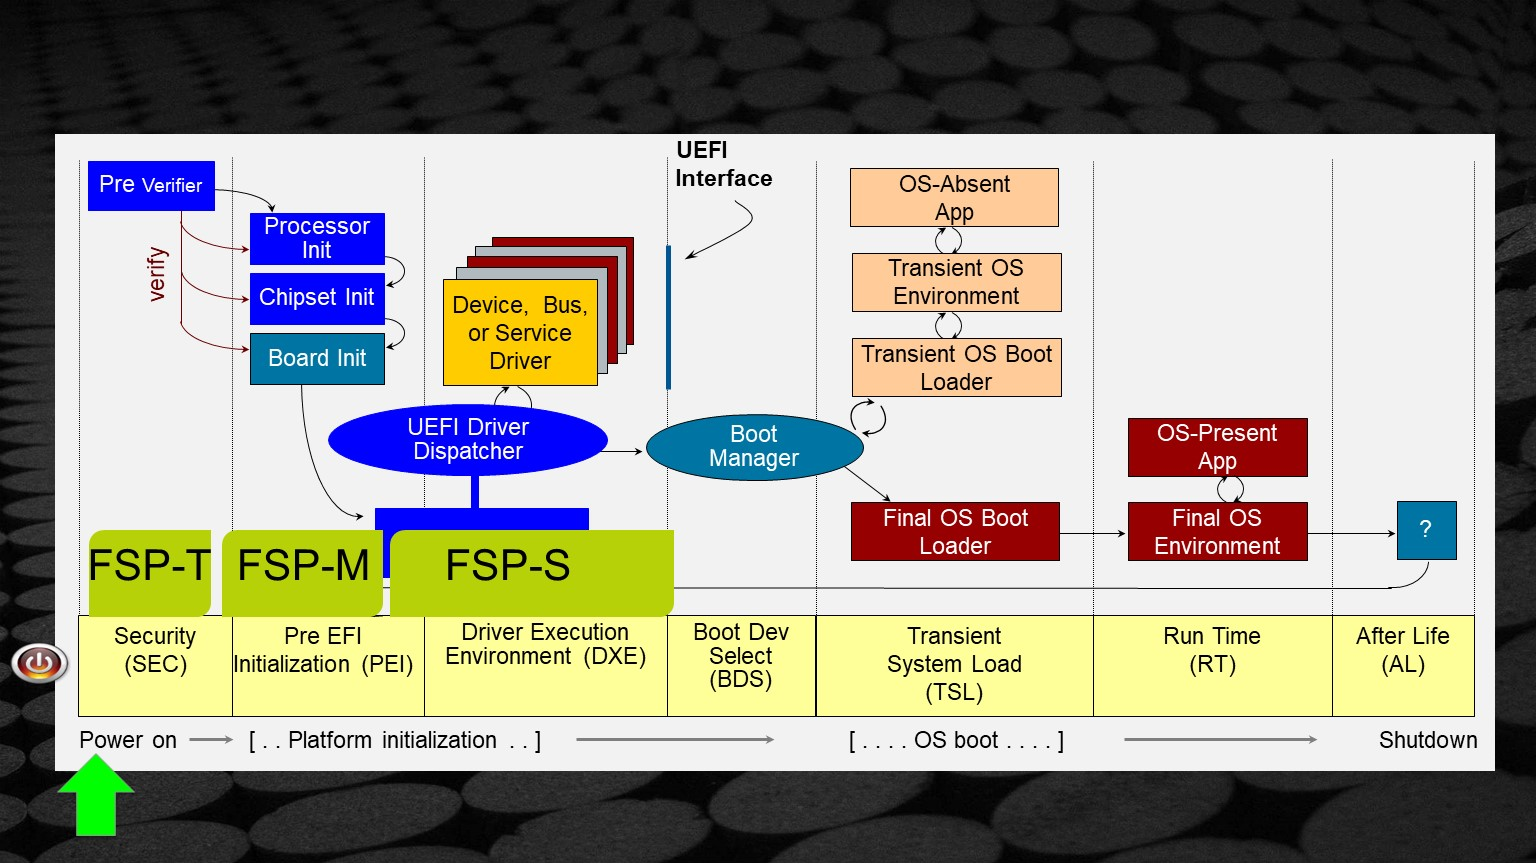
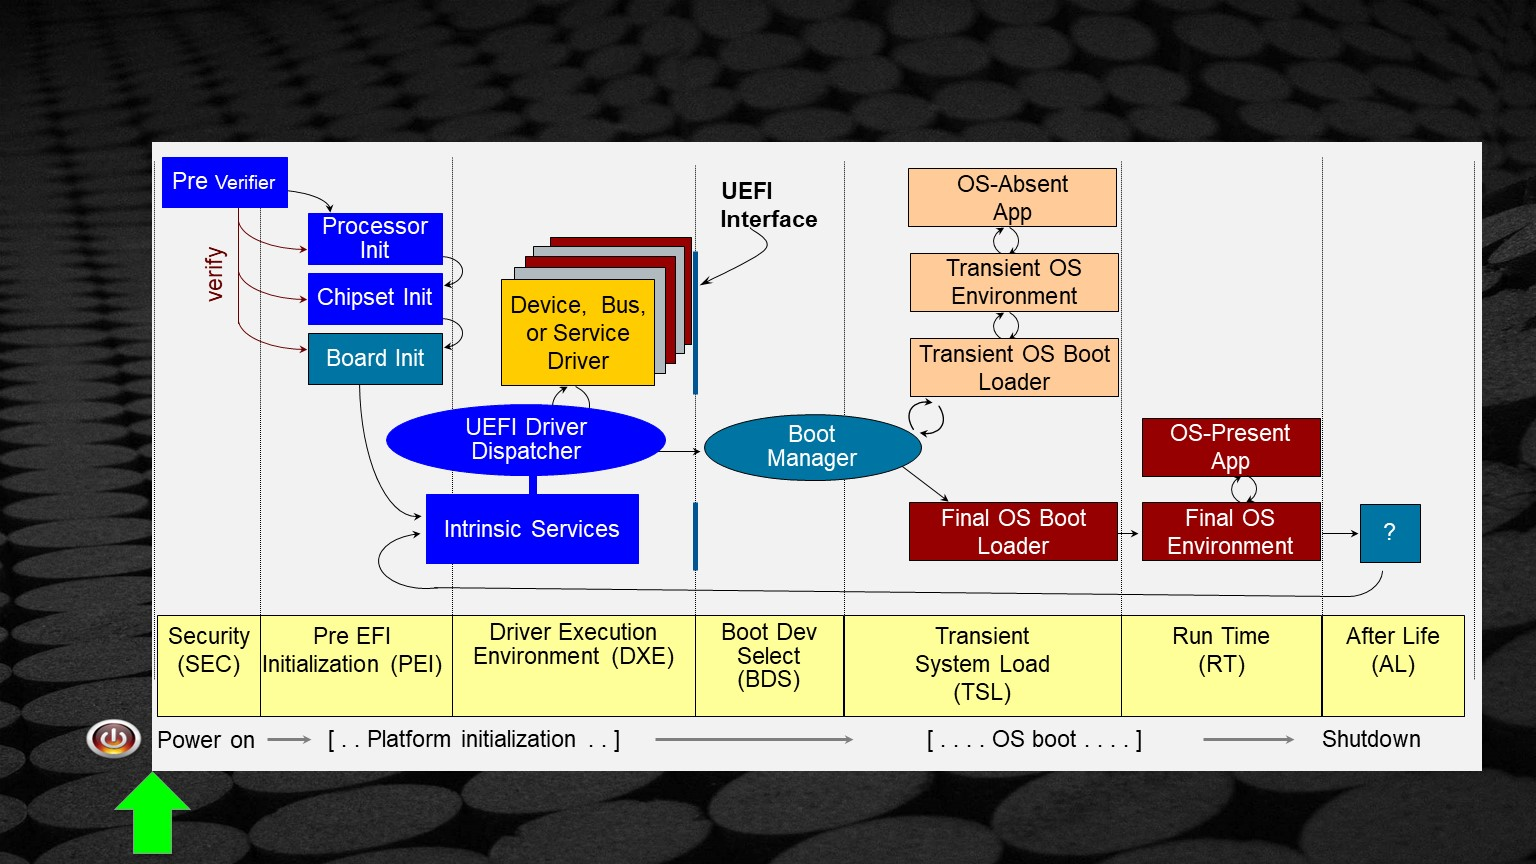
update for Oct 15 2019

Changed region(s): [[0.0, 0.1562, 1.0, 1.0], [0.5938, 0.8438, 0.7812, 0.875], [0.5, 0.8438, 0.5625, 0.875]]

diff --git a/assets/css/PITCHME.css b/assets/css/PITCHME.css
@@ -197,9 +197,11 @@ span.aside {
 .reveal pre {
   width: 100%;
   box-shadow : none;
+   font-family: "Consolas";
 }
 .reveal pre code {
   font-size: 0.8em;
+     font-family: "Consolas";
   line-height: 1.0;
   max-height: 60vh !important;
   opacity: 0.95;
@@ -289,6 +291,10 @@ span.aside {
   margin-left: 10px; 
 }
 
+.gp-bullet-red2{ 
+  color:#ff0000;
+  margin-left: 10px; 
+}
 
 h6 {
     font-weight: bold;
@@ -345,6 +351,10 @@ table#recTable{width:100%; border:1px solid gray;}
 
 table#recTable2{width:110%; border:1px solid gray;}
 #recTable2 tr td {height:0.2px; border:1px solid gray;}
+
+table#recTable-1{width:100%; border:1px solid gray;}
+#recTable-1 tr td {height:0.01px; border:1px solid gray;}
+
 
 /* the following are for Back ground colors for using the boxes widget from gitpitch */
 

diff --git a/PITCHME.md b/PITCHME.md
@@ -712,18 +712,21 @@ Section on Intel FSP
 @title[Intel FSP Description]
 <br>
 #### <span class="gold">Intel® FSP  -  Components </span>
-- CPU, memory controller, and chipset initialization functions as a binary package
-- Provides silicon initialization ingredients
-- Plugs into existing firmware frameworks
-- Integration guide, includes API documentation
+<ul style="list-style-type:disc; line-height:0.7;">
+ <li><span style="font-size:0.8em" >CPU, memory controller, and chipset initialization functions as a binary package   </span></li>
+ <li><span style="font-size:0.8em" >Provides silicon initialization ingredients   </span></li>
+ <li><span style="font-size:0.8em" >Plugs into existing firmware frameworks   </span></li>
+ <li><span style="font-size:0.8em" >Integration guide, includes API documentation   </span></li>
+</ul>
 
-<p align="left" style="margin-top: -3px; margin-bottom: -3px"><span style="color:white; font-size:0.6em"> 
-<br>
-<BR>
-<p style="line-height:70%"><span style="font-size:0.8em" >Intel FSP is currently available for the many Intel hardware-producing divisions &nbsp;&nbsp;&nbsp;
-See: <a href="https://firmware.intel.com/learn/fsp/about-intel-fsp"> About Intel FSP</a> </span></p>
+<p style="line-height:70%"><span style="font-size:0.7em" >Intel FSP is currently available for the many Intel hardware-producing divisions &nbsp;&nbsp;&nbsp;
+See: <a href="https://software.intel.com/en-us/articles/intel-firmware-support-package"> About Intel FSP</a> </span></p>
 <p style="line-height:70%"><span style="font-size:0.8em" >White Paper Example: <a href="https://github.com/mangguo321/Braswell/blob/master/Documents/Open_Braswell_Platform_Designing_Porting_Guide.pdf">
 Open Braswell - Design and Porting Guide</a></span></span></p>
+
+@snap[south span-100 fragment]
+@box[bg-purple-pp text-white rounded my-box-pad2  ](<p style="line-height:70%" ><span style="font-size:0.9em; font-weight: bold;" > Intel® FSP is <b>NOT</b> a stand-alone boot-loader<br>&nbsp;</span></p>)
+@snapend
 
 Note:
 The Intel® Firmware Support Package (Intel® FSP) is a royalty-free option for initializing Intel silicon, designed for integration into a boot loader of the developer's choice. It is easy to adopt, is scalable to design, reduces time to market, and is economical to build. Intel FSP provides a binary package to initialize the processor, memory controller, and Intel® chipset initialization functions.
@@ -738,6 +741,7 @@ Intel FSP is designed for integration into a variety of boot loaders, including 
 
 Note:
 Intel FSP 1<Br>
+
 +++?image=/assets/images/slides/Slide25.JPG
 <!-- .slide: data-background-transition="none" -->
 <!-- .slide: data-transition="none" -->
@@ -760,23 +764,35 @@ Intel®  FSP "Produced" to <br> "Consuming" Intel® Architecture Firmware </span
 Note:
 Applying “Produced” Intel® Firmware Support Package (FSP) to “Consuming” IA firmware <Br>  
 
----?image=/assets/images/slides/Slide36_1.JPG
-<!-- .slide: data-transition="none" -->
 
+
+---
 @title[Intel FSP from UEFI Boot Flow]
 #### <p align="center"><span class="gold">UEFI - PI & EDK II Boot Flow </span><span style="color:white;">&nbsp;&nbsp;&nbsp;&nbsp;-&nbsp;<b>FSP</b> </span></p>
 
+@snap[south-west span-100]
+![boot-flow](/assets/images/boot-flow.png)
+@snapend
+
+
+@snap[south-west span-45 fragment]
+![fsp-bin](/assets/images/FSP_FD.png)
+<br>
+<br>
+<br>
+<br>
+@snapend
 
 Note:
 Platform Initialization (PI) & UEFI w/ EDK <Br>
 - Intel FSP boot flow   
  
-+++?image=/assets/images/slides/Slide37_2.JPG
+---?image=/assets/images/slides/Slide37.JPG
 <!-- .slide: data-background-transition="none" -->
 <!-- .slide: data-transition="none" -->
 @title[Intel FSP from UEFI Boot Flow 2]
 
-#### <p align="center"><span class="gold">UEFI - PI & EDK II Boot Flow </span><span style="color:white;">&nbsp;&nbsp;&nbsp;&nbsp;-&nbsp;<b>FSP</b> </span></p>
+<p align="center"><span class="gold">Boot Flow with UEFI & Intel® FSP</span><span style="color:white;">&nbsp;&nbsp;&nbsp;&nbsp;</span></p>
 
 Note:
 Platform Initialization (PI) & UEFI w/ EDK <Br>
@@ -795,15 +811,15 @@ Then the PeiCore will continue dispatching the final PEIMs and jump into the Dxe
 ##### <p align="center"<span class="gold">Intel® FSP  - Producer </span></p>
 <ul style="line-height:0.8;">
   <li><span style="font-size:0.8em" > Examples of binary instances on   <a href="http://www.intel.com/fsp">http://www.intel.com/fsp </a> with integration guides</span></li>
-  <ul style="list-style-type:disc" style="line-height:0.8;" >
-    <li><span style="font-size:0.67em" >This includes hardware initialization code that is EDK II based PEI Modules (PEIM’s)</span></li>
+  <ul style="list-style-type:none" style="line-height:0.7;" >
+    <li><span style="font-size:0.67em" >&bull; This includes hardware initialization code that is EDK II based PEI <br>&nbsp;&nbsp;&nbsp;&nbsp;Modules (PEIM’s)</span></li>
   </ul>
   <li><span style="font-size:0.8em" >Modules are encapsulated as a UEFI PI firmware volume w/ extra header</span></li>
   <li><span style="font-size:0.8em" >Configure w/Vital Product Data (VPD)-style Platform Configuration Data (PCD) externalized from the modules</span></li>
   <li><span style="font-size:0.8em" >Resultant output state reported via UEFI Platform Initialization (PI) Hand Off Block (HOB)</span></li>
 </ul>
 <p style="line-height:50%"><span style="font-size:0.5em" > <a href="http://www.intel.com/content/dam/www/public/us/en/documents/technical-specifications/fsp-architecture-spec-v2.pdf"> Intel® Firmware Support Package (Intel® FSP) External Architecture Specification (EAS) v2.0 PDF </a><BR>
- Resource: <a href="https://firmware.intel.com/blog/open-source-platforms-edkii-using-intel-fsp">https://firmware.intel.com/blog/open-source-platforms-edkii-using-intel-fsp  </a> </span> </p>
+</span> </p>
 
 Note:
 
@@ -812,19 +828,19 @@ Note:
 ##### <p align="right"><span class="gold">Source for Intel® FSP  Producer Code</span></p>
 
 <ul style="line-height:0.8;">
-  <li><span style="font-size:0.8em" >CPU and chipset-specific code for PEIM’s inside of the Intel FSP can be open or closed, added to… </span></li><br>
+  <li><span style="font-size:0.8em" >CPU and chipset-specific code for PEIM’s inside of the Intel FSP can be open or closed, code at <a href="https://github.com/IntelFsp/FSP"> Intel FSP-repo </a></span></li><br>
   <li><span style="font-size:0.8em" >PEI core and infrastructure code at <a href="https://github.com/tianocore/edk2"> tianocore.org/edk2 </a></span></li>
   <ul style="list-style-type:disc" style="line-height:0.8;" >
-     <li><span style="font-size:0.7em" ><a href="https://github.com/tianocore/edk2/tree/master/MdePkg"> `/MdePkg` </a></span></li>
-     <li><span style="font-size:0.7em" ><a href="https://github.com/tianocore/edk2/tree/master/MdeModulePkg"> `/MdeModulePkg` </a></span></li><br>
+     <li><span style="font-size:0.7em" ><a href="https://github.com/tianocore/edk2/tree/master/MdePkg"> /MdePkg </a></span></li>
+     <li><span style="font-size:0.7em" ><a href="https://github.com/tianocore/edk2/tree/master/MdeModulePkg"> /MdeModulePkg </a></span></li><br>
   </ul>
   <li><span style="font-size:0.8em" >And the code to create the Intel FSP interfaces can be found at</span></li> 
    <ul style="list-style-type:disc" style="line-height:0.8;" >
-     <li><span style="font-size:0.7em" ><a href="https://github.com/tianocore/edk2/tree/master/IntelFsp2Pkg"> `/IntelFsp2Pkg` </a></span></li>
+     <li><span style="font-size:0.7em" ><a href="https://github.com/tianocore/edk2/tree/master/IntelFsp2Pkg"> /IntelFsp2Pkg </a> and Wrapper at: <a href="https://github.com/tianocore/edk2/tree/master/IntelFsp2WrapperPkg">/IntelFsp2WrapperPkg </a></span></li>
    </li>
 <br>
 <br>
-@box[bg-purple text-white rounded fragment](Intel FSP can encapsulate IP protected initialization code PRODUCED by Intel business units) -
+@box[bg-purple-pp text-white rounded fragment](Intel FSP can encapsulate IP protected initialization code PRODUCED by Intel business units) -
 
 Note:
 
@@ -840,7 +856,7 @@ Talking point – anyone would could be producer.  IBV could.  Just worry about 
 
 
 
----?image=/assets/images/slides/Slide37_1.JPG
+---?image=/assets/images/slides/Slide41.JPG
 <!-- .slide: data-transition="none" -->
 
 @title[UEFI Spec pic]    
@@ -873,16 +889,15 @@ Note:
 
 ---  
 @title[UDK2018 Key Features]   
-<br> 
-<p align="center"><span style="color:#e49436; font-size: 1.0em"> UDK2018: Key Features - Q2 2018</span> </p>
+<p align="right"><span style="color:#e49436; font-size: 1.0em"> UDK2018: Key Features - Q2 2018</span> </p>
 <p align="Left"><span style="color:#e49436; font-size:0.8em"> UEFI Development Kit (UDK) releases are stable, validated snapshots of EDK II  </span> </p>
 <div class="left">
-     <ul style="list-style-type:disc; line-height:0.8;">
+     <ul style="list-style-type:disc; line-height:0.7;">
         <li><span style="font-size:0.7em">Industry Standards & Public Specifications</span> </li>
-        <ul style="list-style-type:disc; line-height:0.8;">
-          <li><span style="font-size:0.7em">UEFI 2.7</span></li>
-          <li><span style="font-size:0.7em">UEFI PI 1.6</span></li>
-          <li><span style="font-size:0.7em">ACPI 6.2</span></li>
+        <ul style="list-style-type:none; line-height:0.65;">
+          <li><span style="font-size:0.67em">&bull; UEFI 2.7</span></li>
+          <li><span style="font-size:0.67em">&bull; UEFI PI 1.6</span></li>
+          <li><span style="font-size:0.67em">&bull; ACPI 6.2</span></li>
         </ul>
         <li><span style="font-size:0.7em">Centralized Config Management </span></li>
         <li><span style="font-size:0.7em">IOMMU-based DMA Protection</span></li>
@@ -890,7 +905,7 @@ Note:
     </ul>
 </div>
 <div class="right">
-    <ul style="list-style-type:disc; line-height:0.8;">
+    <ul style="list-style-type:disc; line-height:0.7;">
         <li><span style="font-size:0.7em">Compilers / Tools</span></li>
         <li><span style="font-size:0.7em">Microsoft Visual Studio 2017 tool chain</span></li>
         <li><span style="font-size:0.7em">Hash-based incremental build</span></li>
@@ -900,10 +915,17 @@ Note:
     </ul>
 </div>
 
+@snap[south-west span-100 ]
+<p style="line-height:67%" align="left"><span style="font-size:0.67em">
+Include Helper .chm files for different Packages: <a href="https://github.com/tianocore/tianocore.github.io/wiki/UDK2018#documentation"> UDK2018 documentation</a>
+<br>
+</span></p>
+@snapend
+
+
 ---  
 @title[EDK II Community Development]   
 <p align="center"><span class="gold"   >@size[1.1em](<b>EDK II - Open Source &nbsp;&nbsp;&nbsp; </b>)</span></p>
-<br>
 
 <span style="font-size:01.0em">@color[#e49436](Community Development)</span>
 <div class="left1">
@@ -933,9 +955,18 @@ Note:
 ![Community](/assets/images/Community.png )
 @snapend
 
+
+@snap[south-west span-45 ]
+<p style="line-height:70%" align="left"><span style="font-size:0.7em">
+More information on Stable Tag Planning: <a href="https://github.com/tianocore/tianocore.github.io/wiki/EDK-II-Release-Planning"> TianoCore Wiki</a>
+<br>
+</span></p>
+<br>
+@snapend
+
 @snap[south-east span-45 ]
 <p style="line-height:70%" align="left"><span style="font-size:0.7em">
-Tag: edk2-stable201903 Features:<br>
+Tag: edk2-stable201908 Features:<br>
 &nbsp;&nbsp;<a href="https://github.com/tianocore/edk2/releases">	edk2 releases Stable tag</a><br>
 <br>
 </span></p>
@@ -952,6 +983,17 @@ There is a development phase,
 Soft Feature Freeze
 The soft feature freeze is the beginning of the stabilization phase of edk2's development process. By the date of the soft feature freeze, developers must have sent their patches to the mailing list andreceived positive maintainer reviews (Reviewed-by or Acked-by tags). This means that features, and in particular non-trivial ones, must have been accepted by maintainers before the soft freeze date.
 Between the soft feature freeze and the hard feature freeze, previously reviewed and unit-tested features may be applied (or merged) to the master branch, for integration testing. Feature addition or enablement patches posted or reviewed after the soft feature freeze will be delayed until after the upcoming stable tag.
+
+
+---?image=/assets/images/slides/Slide45.JPG
+@title[Report a bug on Bugzilla]
+<p align="right"><span class="gold" >@size[1.1em](<b>Report a bug on Bugzilla&nbsp; &nbsp; &nbsp; &nbsp;  </b>)</span>
+<span style="font-size:0.75em;" >  </span></p>
+<ul style="list-style-type:none; line-height:0.8;">
+  <li><span style="font-size:0.75em">Create a user account  https://bugzilla.tianocore.org/  </span></li>
+  <li><span style="font-size:0.75em">Search if bug "already" reported  </span></li>
+  <li><span style="font-size:0.75em">File <a href="https://bugzilla.tianocore.org/enter_bug.cgi">New Report</a> – Pick a product – fill out form for the bug  </span></li>
+</ul>
 
 
 ---  
@@ -999,9 +1041,36 @@ Between the soft feature freeze and the hard feature freeze, previously reviewe
 <br><br><br><br><br>
 ### <p align="center"><span class="gold"   >Backup </span></p>
 
----?image=/assets/images/slides/Slide50_1.JPG
+
+---
+@title[FSP detail 0]
+<p align="right"><span class="gold" >@size[1.1em](<b>What is Intel® Firmware Support Package?  </b>)</span><span style="font-size:0.75em;" >  </span></p>
+<ul style="list-style-type:disc; line-height:0.7;">
+  <li><span style="font-size:0.7em">Intel® Firmware Support Package (Intel® FSP) includes: </span></li>
+  <ul style="list-style-type:disc; line-height:0.6;">
+     <li><span style="font-size:0.57em">A binary file </span></li>
+     <li><span style="font-size:0.57em">An integration guide </span></li>
+     <li><span style="font-size:0.57em">A rebasing tool </span></li>
+     <li><span style="font-size:0.57em">An IDE configuration tool / Boot Setting File (BSF) </span></li>
+ </ul> 
+  <li><span style="font-size:0.7em">Provide silicon initialization code: </span></li>
+  <ul style="list-style-type:disc; line-height:0.6;">
+     <li><span style="font-size:0.57em">Initializes processor core, chipset as explained in BIOS Writers’ Guid </span></li>
+     <li><span style="font-size:0.57em">Is relocatable in ROM </span></li>
+     <li><span style="font-size:0.57em">Can be configured for platform customization </span></li>
+  </ul> 
+  <li><span style="font-size:0.7em">Boot loader agnostic and can be easily integrated with many options: </span></li>
+  <ul style="list-style-type:disc; line-height:0.6;">
+     <li><span style="font-size:0.57em">Open source boot loaders: UEFI –EDK II, Coreboot, U-boot, etc. </span></li>
+     <li><span style="font-size:0.57em">RTOS </span></li>
+     <li><span style="font-size:0.57em">Others </span></li>
+  </ul> 
+</ul>
+
+
+---?image=/assets/images/slides/Slide52.JPG
 @title[FSP detail 1]
-<p align="right" style="line-height:50%"><span style="font-size:0.8em"><b>Intel® FSP V2.0 Boot Flow</b><br> </span><span style="font-size:0.5em"> Using Intel® FSP w/ EDK II: <a href="https://firmware.intel.com/sites/default/files/A_Tour_Beyond_BIOS_Using_the_Intel_Firmware_Support_Package_with_the_EFI_Developer_Kit_II_(FSP2.0).pdf "> PDF</a>
+<p align="right" style="line-height:50%"><span style="font-size:0.8em"><b>Intel® FSP V2.0 Boot Flow</b><br> </span><span style="font-size:0.5em"> Using Intel® FSP w/ EDK II: <a href="https://software.intel.com/sites/default/files/managed/d9/57/a-tour-beyond-bios-using-the-intel-firmware-support-package-with-the-efi-developer-kit-ii-fsp2.0.pdf"> PDF</a>
 <br></span> </p>
 	
 Note:
@@ -1010,7 +1079,10 @@ Different Intel hardware devices may have different Intel FSP binary instances, 
 Despite the variability of the FSP binaries, the FSP API caller (aka FSP consumer) could be a generic module to invoke the 5 APIs defined in FSP EAS (External Architecture Specification) to finish silicon initialization. [FSP EAS] 
 The flow below describes the FSP, with the FSP binary from the “FSP Producer” in green and the platform code that integrates the binary, or the “FSP Consumer”, in blue. 
 
-Source https://firmware.intel.com/sites/default/files/A_Tour_Beyond_BIOS_Using_the_Intel_Firmware_Support_Package_with_the_EFI_Developer_Kit_II_%28FSP2.0%29.pdf 
+Source https://software.intel.com/sites/default/files/managed/d9/57/a-tour-beyond-bios-using-the-intel-firmware-support-package-with-the-efi-developer-kit-ii-fsp2.0.pdf
+
+ moved from:
+ https://firmware.intel.com/sites/default/files/A_Tour_Beyond_BIOS_Using_the_Intel_Firmware_Support_Package_with_the_EFI_Developer_Kit_II_%28FSP2.0%29.pdf 
 
 ---
 @title[FSP detail 2]
@@ -1025,6 +1097,31 @@ Open Braswell EDKII FSP
 Wrapper is responsible for communicating with Braswell FSP APIs in SEC, PEI, and
 BDS phase
 https://github.com/mangguo321/Braswell/raw/master/Documents/Open_Braswell_Platform_Designing_Porting_Guide.pdf 
+
+
+---
+@title[FSP detail 3]
+<p align="right"><span class="gold" >@size[1.1em](<b>Intel®  FSP Integration  </b>)</span><span style="font-size:0.75em;" >  </span></p>
+<ul style="list-style-type:none; line-height:0.7;">
+  <li><span style="font-size:0.7em"><b>Placement:  </b> </span></li>
+  <ul style="list-style-type:disc; line-height:0.6;">
+     <li><span style="font-size:0.57em">Once the Intel FSP binary is ready for integration, the bootloader build process needs to configured to place the Intel FSP binary at the proper base address. </span></li>
+ </ul> 
+  <li><span style="font-size:0.7em"><b>Rebase:  </b> </span></li>
+  <ul style="list-style-type:disc; line-height:0.6;">
+     <li><span style="font-size:0.57em">The Intel FSP is not Position Independent Code (PIC) and the whole Intel FAP has to be rebased with the Binary Configuration Tool (BCT) if it is placed at a location that is different form the default base address of the Intel FSP. </span></li>
+ </ul> 
+  <li><span style="font-size:0.7em"><b>Interface:  </b> </span></li>
+  <ul style="list-style-type:disc; line-height:0.6;">
+     <li><span style="font-size:0.57em">The bootloader needs to add code to setup the Operating environment for the Intel FSP, call Intel FSP with the correct parameters and parse the Intel FSP output to retrieve the necessary information returned by the Intel FSP. </span></li>
+ </ul> 
+  <li><span style="font-size:0.7em"><b>Customization:  </b> </span></li>
+  <ul style="list-style-type:disc; line-height:0.6;">
+     <li><span style="font-size:0.57em">The static Intel FSP configuration parameters/features are part of the Intel FSP binary and can be customized with BCT  </span></li>
+ </ul> 
+
+</ul>
+
 
 ---
 @title[UEFI & EDK II Timeline]    
